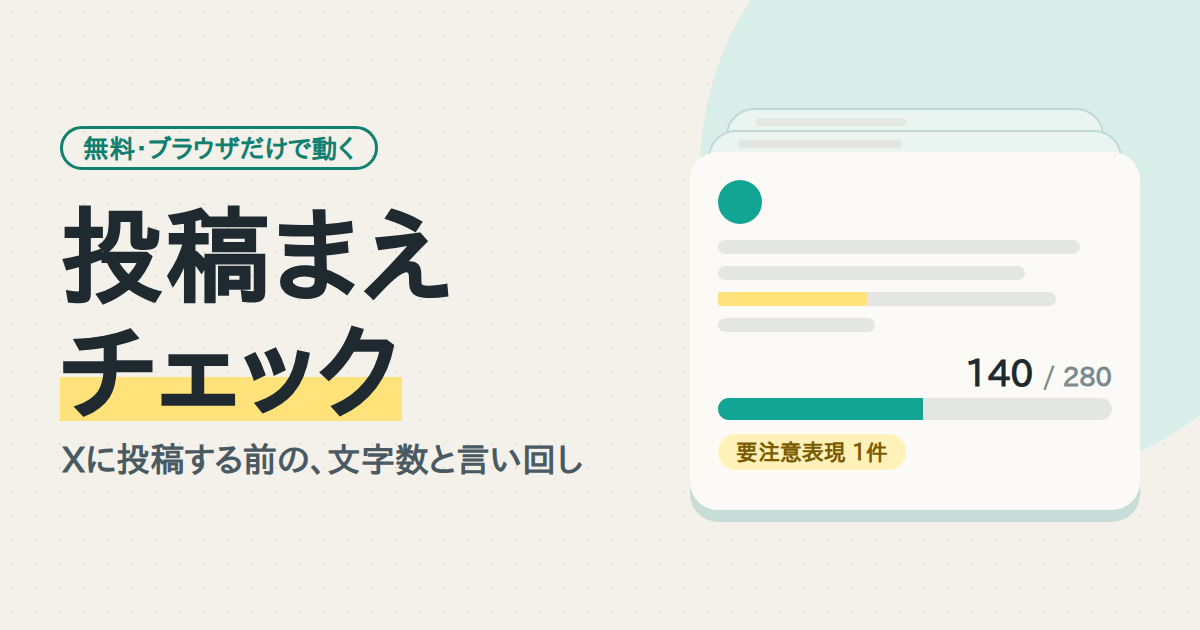
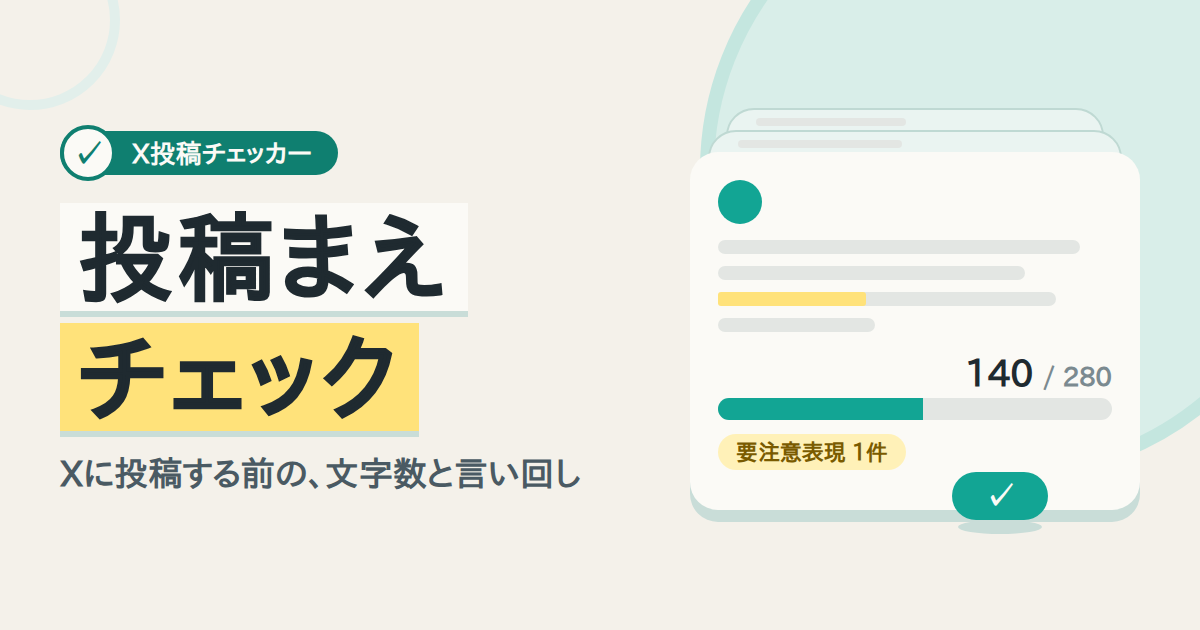
docs: 投稿まえチェックのアイキャッチ生成プロンプトを参考画像あり版に差し替え（ラベルをX投稿チェッカーに・配置ラフを更新）
Claude-Session: https://claude.ai/code/session_01AMa5L2PRbfMjiRtcuTjUXK

Changed region(s): [[0.0308, 0.3317, 0.4933, 0.7841], [0.0308, 0.181, 0.3392, 0.3016], [0.7708, 0.7238, 0.8942, 0.8444]]

diff --git a/operations/structure-drafts/x-post-checker-eyecatch-prompt.md b/operations/structure-drafts/x-post-checker-eyecatch-prompt.md
@@ -1,10 +1,127 @@
 # アイキャッチのプロンプト：投稿まえチェック（X投稿チェッカー）の固定ページ
 
+2026-10-01。対象は記事ではなく固定ページ `pages/x-post-checker.md`（slug `x-post-checker`）。保存名は `images/pages/x-post-checker-eyecatch.png` の案（固定ページには命名ルールが無い。`service-banner.png` が前例）。
+
+- 方向：CCのラフ3案のうちA（画面そのもの）をユーザーが選択。ラベルは「X投稿チェッカー」に変更（ユーザー「1にして」）
+- **参考画像：ユーザー添付（他社の実物バナー「新入社員が聞いてみた プロダクトデザインって何？」・SmartHR・シアン地に大きな円のルーペ＋アイソメトリックの人物3人・右にオレンジのピルとタイトル）**。ユーザー指示：「デザインやトンマナはこちらに合わせて。レイアウトや配色などはラフの通りで問題ない」
+- 直近 no.70（ベージュ×オレンジ）・no.71（薄グレー×水色×黄）・no.72（ラベンダー×緑×オレンジ）と配色が続かない。**no.70 も「ピルのラベル＋タイトルの語をタイル／帯にする」組み方なので、ラベル・帯の形が近い。配色（オレンジ→ティール）とイラスト（人物→投稿カード）で別の画像にする**
+
+## 参考画像の文字の入った所 → 差し替え
+
+| 参考画像 | 差し替え |
+|---|---|
+| オレンジのピルのラベル「？」＋「新入社員が聞いてみた」（右上） | ティールのピルのラベル「X投稿チェッカー」（**左上**に移す。バッジの「？」→チェックマーク） |
+| 白い帯の見出し「プロダクト」「デザイン」＋「って何？」 | 帯の見出し「投稿まえ」「チェック」（2語とも帯。「って何？」にあたる語は無し） |
+| 薄い英字「Product Design?」＋点線 | 入れない（サブタイトル「Xに投稿する前の、文字数と言い回し」を、タイトルの下に1行で置く） |
+| 右下のロゴ「SmartHR」 | 入れない |
+
+## 取り入れるもの・変えるもの
+
+| 取り入れる | 変える |
+|---|---|
+| 画面（UI）を細かく描き込んだフラットなイラスト、床に落とす楕円の影、小さな部品の重なり、品質と密度 | 人物3人・歯車・スマホ・ホワイトボード → **描かない**。投稿カード・古い投稿カード・メーター・チェックボタンにする（CCが先に「人物は描かない」と決めた方向で、ユーザーはラフAのまま了承） |
+| タイトルの語ごとの、文字幅ぴったりの帯＋影 | 帯の色：2段とも白 → 1段目は白に近い色、2段目は黄色（ラフの黄色のマーカーの置き換え） |
+| 角丸のピルのラベル＋左に重なる丸いバッジ | 色：オレンジ → ティール。記号：「？」→ チェックマーク。位置：右上 → 左上 |
+| 縁に太めの淡いリングを回した大きな円（ルーペのレンズ） | 白い大円が主役で絵が入る → 右上のミントの円を背景にするだけ。柄は付けない |
+| 画面の端で切れる細い円の輪郭の軽いあしらい | 位置・色：左上・うすいミント（#E2EFEB）に1つ |
+| 明るくやさしいトーン・太字で角のはっきりしたゴシック体 | 配色：シアン×白×オレンジ → クリーム×ティール×黄色（ラフどおり） |
+| | 向き：左にイラスト・右に文字 → **左右反転**（左に文字・右にイラスト。ラフどおり） |
+
+## プロンプト（参考画像を添付して貼る）
+
+```
+添付の画像を参考に、ブログ（無料ツールの紹介ページ）のアイキャッチを1枚作ってください。サイズは横1200px×縦630pxです。
+
+■取り入れるもの（参考画像のいい所）
+・画面（UI）を細かく描き込んだ、明るくやさしいフラットなイラスト。小さな部品を重ね、物の下に薄い楕円の影を落として立体感を出す
+・イラストの描き込み・影・色の塗り分けの品質は、参考画像と同じ水準以上にする
+・タイトルの語ごとに、文字の幅ぴったりの角のある帯を敷き、その上に濃い色の太字を載せる組み方（帯の下に、ずらした影）
+・太字で角のはっきりしたゴシック体、字間はやや広め
+・角丸のピル型のラベル。左端に、ピルより少し大きい丸いバッジが重なり、バッジの中に記号が入る
+・縁に太めの淡い色のリングを回した大きな円（ルーペのレンズのように見せる）を背景に置く。画面の端で切れる細い円の輪郭を、うすい色で1つ添える
+・余白と配置：文字のかたまりとイラストで画面の横幅をほぼ半分ずつ使い、上下の中心をそろえる。上下は端から約110px、左右は約50〜60px空け、文字とイラストは画面の高さの6割前後に収める。片側に寄せない
+
+■変えるもの
+・向き：参考画像は「左にイラスト、右に文字」。これを左右反転して、左に文字、右にイラストにする
+・配色：参考画像のシアン・白・オレンジは使わず、下の「配色」のクリーム・ティール・黄色にする
+・人物は描かない：参考画像の人物・歯車・スマホ・ホワイトボードは使わず、右側のイラストは下の「投稿カード」だけで見せる
+・円：参考画像は白い大円が画面の主役で、人物が中に入る。今回は右上のミントの円を背景にするだけで、円の中に絵は入れない。ルーペの柄は付けない
+・帯：参考画像は2段とも白。今回は1段目を白に近い色、2段目を黄色にする
+・ラベル：色はティール。バッジの中の記号は、？ではなくチェックマークにする
+・参考画像の英字（Product Design?）・点線・ロゴ（SmartHR）は入れない
+
+■右側のイラスト「投稿の下書きを確認する画面」
+画面の右側（左から690px〜1140px、上から108px〜510px）に、投稿カードを1枚と、その後ろに古い投稿カードを2枚、重ねて置きます。
+
+・手前のメインカード：左から690px〜1140px（幅450px）、上から152px〜510px（高さ358px）。角丸28px、塗りは白に近い温かいグレー（#FBFAF6）。カードの下に、ぼかさない色の面だけの影を12pxずらして置く（#C9DDD8）。カードの内側の余白は、上下左右とも28px
+・メインカードの中身（上から順。縦の位置はカードの上端からの距離）：
+　1. 上から28px：左上に、ティール（#12A594）の円（直径44px）を1つ。投稿者のアイコンを表す
+　2. 上から88px：グレー（#E3E6E3）の角丸の横線（太さ14px）を4本、間隔12pxで並べる。長さはカードの内側の幅に対して、上から92%・78%・86%・40%。3本目だけ、左端から44%の長さを黄色のマーカー（#FFE27A）で塗る（蛍光ペンで引いたように、線の上に重ねる）
+　3. 上から202px：文字「140 / 280」。「140」は高さ36pxくらい、濃いグレー（#1F2A30）、太め。「/ 280」は高さ26pxくらい、灰色（#7B8A90）。カードの内側の右端にそろえる
+　4. 上から246px：細長いメーター（高さ22px、カードの内側の幅いっぱい）。土台はグレー（#E3E6E3）、左から52%をティール（#12A594）で塗る。両端は丸い
+　5. 上から282px：黄色の角丸のチップ（高さ36px、塗りは #FFF1B8、文字は茶色 #7A5B00・高さ22pxくらい）。中の文字は「要注意表現 1件」。チップの左端はカードの内側の左端にそろえる
+・後ろの古い投稿カード2枚：メインカードの後ろに、上へずらして積み重ねる。1枚目は上へ22px、左右をメインカードより18pxずつ狭く。2枚目は上へ44px、左右を36pxずつ狭く。塗りは淡いミント（#EAF4F1）、細い枠（#BFD9D3・太さ2px）、角丸28px。上に出ている細い帯の部分に、グレー（#E3E6E3）の短い横線（太さ8px、カード幅の40%）を1本ずつ入れる。文字は入れない（直近の投稿との重なりを表す）
+・チェックのボタン：メインカードの下の縁にまたがる位置に、ティール（#12A594）の丸みのあるボタン（幅96px×高さ48px、角丸24px）を置く。中心は左から1000px・上から496px。中に、白に近い色（#FBFAF6）のチェックマーク（記号）。ボタンの下に、薄い楕円の影（幅84px×高さ14px、#C9DDD8、上から520px）。どの文字にも重ならない
+
+■背景
+・地：温かいクリーム（#F4F1EA）の無地。真っ白は使わない
+・右上に、ミント（#D9EEE9）の大きな円を1つ（直径620px、中心は画面の右端から190px・上端から170px。画面の端で切れる）。円の縁に、太さ14pxのリング（#C4E6DF）を回す。円の上にカードを重ねる
+・左上の角に、細い円の輪郭を1つ（直径180px、中心は画面の左端から30px・上端から20px、線の太さ10px、#E2EFEB）。画面の端で切れる。ラベルには触れない
+
+■文字（この5か所だけ。字面の左端を1本の縦線にそろえる）
+左側のラベル・帯・サブの左端は、すべて左から60pxの同じ縦線にそろえる。文字のまとまりは、上から125px〜493pxに収め、幅は左から60px〜600pxまで。右のカードとの間に、60px以上のすき間をとる。文字のまとまりの上下の中心は、右のカード（古い投稿カードを含む）のまとまり全体の上下の中心とそろえる。
+1. ラベル（いちばん上、上から125px〜181px）：「X投稿チェッカー」
+　ティール（#0F7F70）で塗った角丸のピル（高さ44px）。文字は白に近い色（#FBFAF6）、高さ26pxくらい、太め。左端に、丸いバッジ（直径56px、塗りは #FBFAF6、縁はティール #0F7F70 の太さ4px）が重なり、中にティールのチェックマーク（記号）を入れる。バッジの左端を、縦線（左から60px）にそろえる。
+2. タイトル（2段・主役）：1段目「投稿まえ」、2段目「チェック」
+　太字のゴシック体、高さ96pxくらい、濃いグレー（#1F2A30）、字間はやや広め。ラベルの約3.5倍の大きさにして、大きさの差（ジャンプ率）をはっきり効かせる。
+　どちらの段も、文字の左右に18pxずつ余白をとった帯（高さ108px）を敷き、帯の左端を縦線（左から60px）にそろえる。1段目の帯は白に近い色（#FBFAF6）、2段目の帯は黄色（#FFE27A）。帯の下に、6pxずらした影（#C9DDD8）。1段目は上から203px〜311px、2段目は上から323px〜431px。
+3. サブタイトル（上から453px〜493px、1行）：「Xに投稿する前の、文字数と言い回し」
+　中くらいの太さのゴシック体、高さ34pxくらい、灰色がかった濃い色（#4A5A63）。文字の左端は、縦線（左から60px）。
+
+■配色
+クリーム（#F4F1EA）の地に、ティール（#12A594・#0F7F70）を主役にして、黄色（#FFE27A・#FFF1B8・#7A5B00）を差し色にする。ミント（#D9EEE9・#C4E6DF・#E2EFEB・#EAF4F1・#BFD9D3・#C9DDD8）、濃いグレー（#1F2A30・#4A5A63・#7B8A90）、薄いグレー（#E3E6E3）、白に近い色（#FBFAF6）。この色だけで描く。
+
+画像内の日本語テキストは、上に指定した文言（「X投稿チェッカー」「投稿まえ」「チェック」「Xに投稿する前の、文字数と言い回し」「要注意表現 1件」）と、数字の「140 / 280」だけにしてください。
+```
+
+## ラフの画像を2枚目に添付する場合（プロンプトの最後に足す・任意）
+
+ユーザー指示「レイアウトや配色はラフの通り」。ラフ（`operations/structure-drafts/x-post-checker-eyecatch-layout-a.png`）は上のプロンプトの寸法どおりに描いた配置の見本。**1枚目＝参考画像、2枚目＝ラフの順で添付する。**
+
+```
+■添付した2枚目の画像について
+2枚目の画像は、配置を示す粗いラフです。左に文字、右に投稿カードを置く組み方と、各部品（ラベル・帯・サブ・投稿カード・古い投稿カード・メーター・チップ・ボタン・円）の位置を、そのまま取り入れてください。
+線の質感、影、重なり、描き込み、全体の仕上がりの品質は、1枚目の参考画像の水準で、ラフよりずっと描き込んで新しく描いてください。
+```
+
+## 生成後に確認する所
+
+・文言が一字一句合っているか（「X投稿チェッカー」「投稿まえ」「チェック」「Xに投稿する前の、文字数と言い回し」「要注意表現 1件」「140 / 280」）／英数字の誤り（Xの全角・半角など）が無いか<br>
+・ラベルのバッジ・帯・サブの左端が1本の縦線にそろっているか／帯の中の文字が欠けていないか<br>
+・古い投稿カードが2枚、メインカードの後ろに積まれて見えるか／3本目の横線にだけ黄色のマーカーがあるか／メーターが約半分か／ボタンがカードの下縁にまたがり、チップや文字に重なっていないか<br>
+・**参考画像と並べて、同じ画像に見えないか**（人物・歯車が入っていないか／色がシアン×オレンジに寄っていないか／英字・ロゴが入っていないか）<br>
+・円の縁のリングと、左上の細い輪郭があるか／背景が真っ白になっていないか<br>
+・no.70と並べて、ラベルと帯の形が近すぎないか（配色とイラストで別物に見えるか）
+
+## 生成後の作業（CC）
+
+1. ユーザーが「アップした／ダウンロードにある」と言ったら、`ls -lt images/` と `~/Downloads` の最新を見る（`knowledge/eyecatch-rules.md`）
+2. 比率を測り、1200×630にそろえる（リサイズ・トリミング・リネームはCCが行う。LANCZOS・ICCプロファイルは引き継がない）
+3. `images/pages/x-post-checker-eyecatch.png` で保存する前に、`ls` で同名が無いか確認する
+4. 結果を`knowledge/eyecatch-rules.md`に追記するか決める（参考画像ありの方式で通ったか）
+
+---
+
+# 第1案（参考画像なし・同日に破棄）
+
+参考画像が届いたため、上の参考画像あり版に置き換えた。ユーザー判断「参考画像なしで進めて」で作ったが、その後すぐ参考画像が添付された（経緯：ラフA→参考画像なしのプロンプト→ユーザーが参考画像を添付）。以下は記録として残す。
+
+
 2026-10-01。**参考画像なし**（ユーザー判断「参考画像なしで進めて」）。方向は、CCのラフ3案のうちA（画面そのもの）をユーザーが選択。対象は記事ではなく固定ページ `pages/x-post-checker.md`（slug `x-post-checker`）。保存名は `images/pages/x-post-checker-eyecatch.png` の案（固定ページには命名ルールが無い。`service-banner.png` が前例）。
 
 ⚠ **参考画像なしの方式は、2026-09-17のno.69で2回試して「不可」で終了している**（`knowledge/eyecatch-rules.md`「試行」の節。背景が無地で部品も無く、テンプレートのような薄い画面になった）。今回は同じ失敗を避けるため、①背景に面と点の模様を入れる ②絵の部品は「何を表すか」を一言で言えるものだけ入れる ③影と重なりで奥行きを出す、を書いた。それでも薄く出たら、参考画像を添付する方式に戻す。
 
-## 決めたこと
+### 決めたこと
 
 | 項目 | 決めたこと | 理由 |
 |---|---|---|
@@ -14,7 +131,7 @@
 | 人物 | 描かない | ツール紹介で、画面が主役。マスコットも使わない |
 | 文字 | 5か所（ラベル・タイトル・サブ・カードの数字・チップ） | 最小限。カードの数字とチップは実際の画面の表記（「140 / 280」）に合わせた |
 
-## プロンプト（GPTにそのまま貼る）
+### プロンプト（GPTにそのまま貼る）
 
 ```
 ブログの固定ページ（無料ツールの紹介ページ）のアイキャッチを1枚作ってください。サイズは横1200px×縦630pxです。
@@ -68,7 +185,7 @@
 ・画像内の日本語テキストは、上に指定した文言（「無料・ブラウザだけで動く」「投稿まえ」「チェック」「Xに投稿する前の、文字数と言い回し」「要注意表現 1件」）と、数字の「140 / 280」だけにしてください。
 ```
 
-## ラフAの画像を添付して仕上げる場合（プロンプトの最後に足す・任意）
+### ラフAの画像を添付して仕上げる場合（プロンプトの最後に足す・任意）
 
 CCのラフ（`operations/structure-drafts/x-post-checker-eyecatch-layout-a.png`）を添付すると、GPTが配置を取りやすくなる。ラフは粗いので、**品質は取り込ませない**。
 
@@ -78,7 +195,7 @@ CCのラフ（`operations/structure-drafts/x-post-checker-eyecatch-layout-a.png`
 線の質感、影、重なり、背景の模様、全体の仕上がりの品質は、このプロンプトの指定に合わせて、ラフよりずっと描き込んだ水準で新しく描いてください。
 ```
 
-## 生成後に確認する所
+### 生成後に確認する所
 
 ・文言が一字一句合っているか（「無料・ブラウザだけで動く」「投稿まえ」「チェック」「Xに投稿する前の、文字数と言い回し」「要注意表現 1件」「140 / 280」）／英数字・記号の誤りが無いか<br>
 ・左のラベル・タイトル・サブの左端が1本の縦線にそろっているか<br>
@@ -87,7 +204,7 @@ CCのラフ（`operations/structure-drafts/x-post-checker-eyecatch-layout-a.png`
 ・人物・マスコットが入っていないか／色が上の配色に収まっているか<br>
 ・全体が薄く平らに見えないか（影と重なりが出ているか）。薄いときは、**参考画像を添付する方式に戻す**判断をユーザーに仰ぐ
 
-## 生成後の作業（CC）
+### 生成後の作業（CC）
 
 1. ユーザーが「アップした／ダウンロードにある」と言ったら、`ls -lt images/` と `~/Downloads` の最新を見る（`knowledge/eyecatch-rules.md`）
 2. 比率を測り、1200×630にそろえる（リサイズ・トリミング・リネームはCCが行う。LANCZOS・ICCプロファイルは引き継がない）
